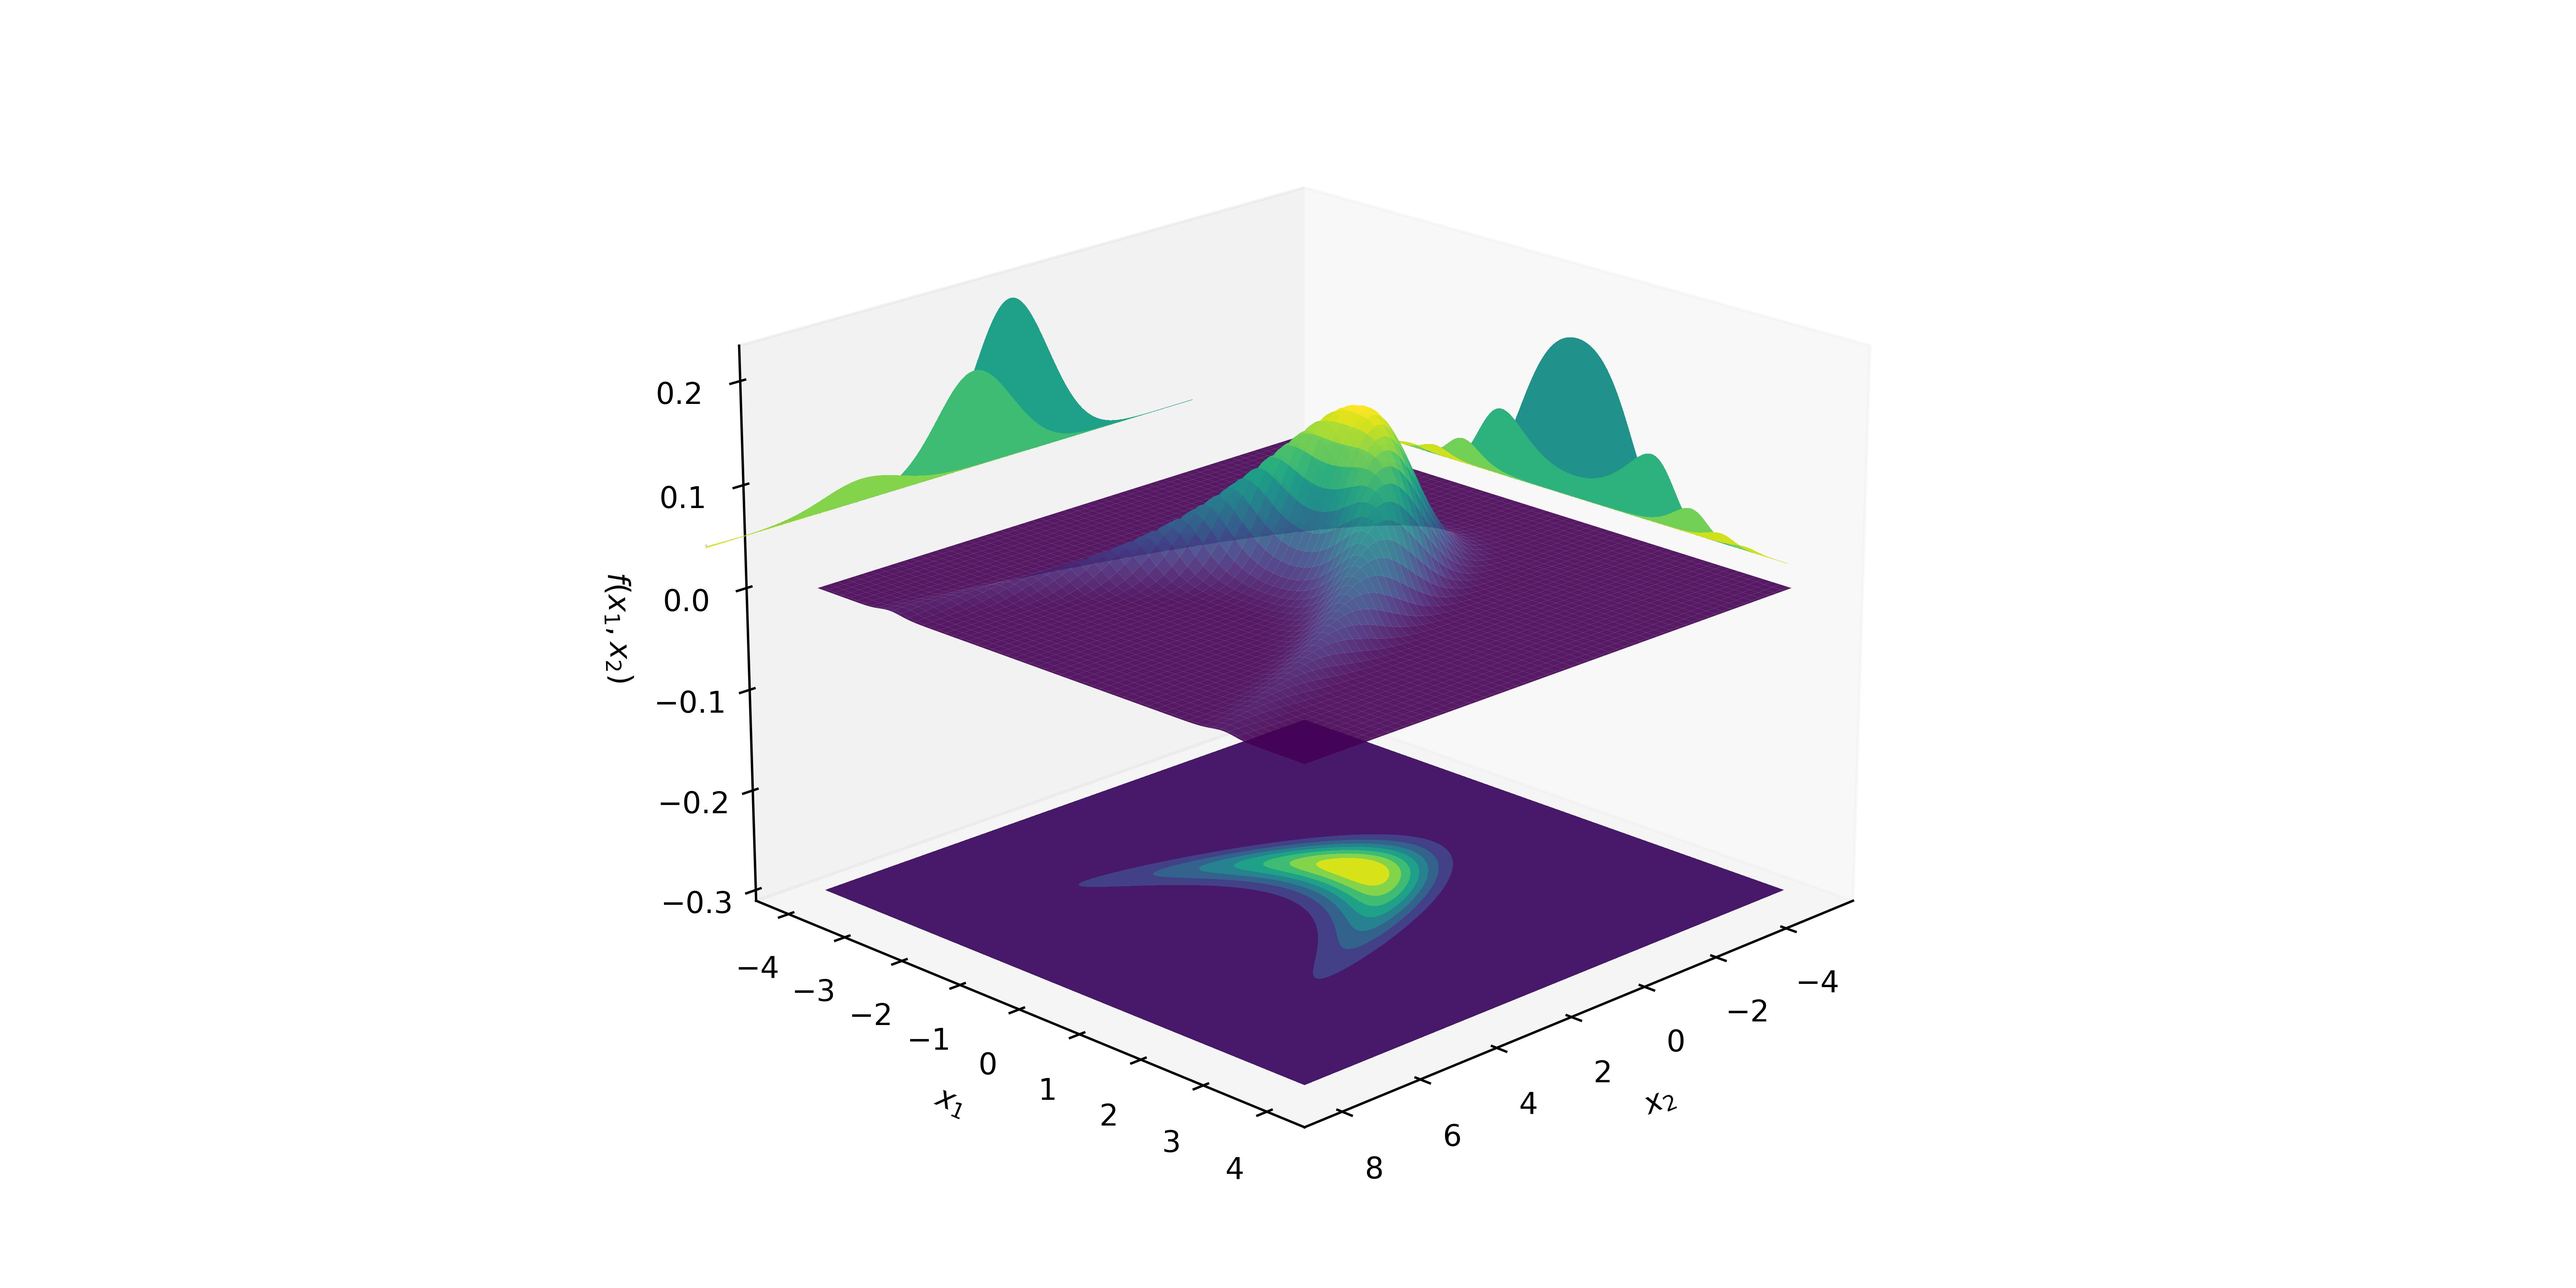
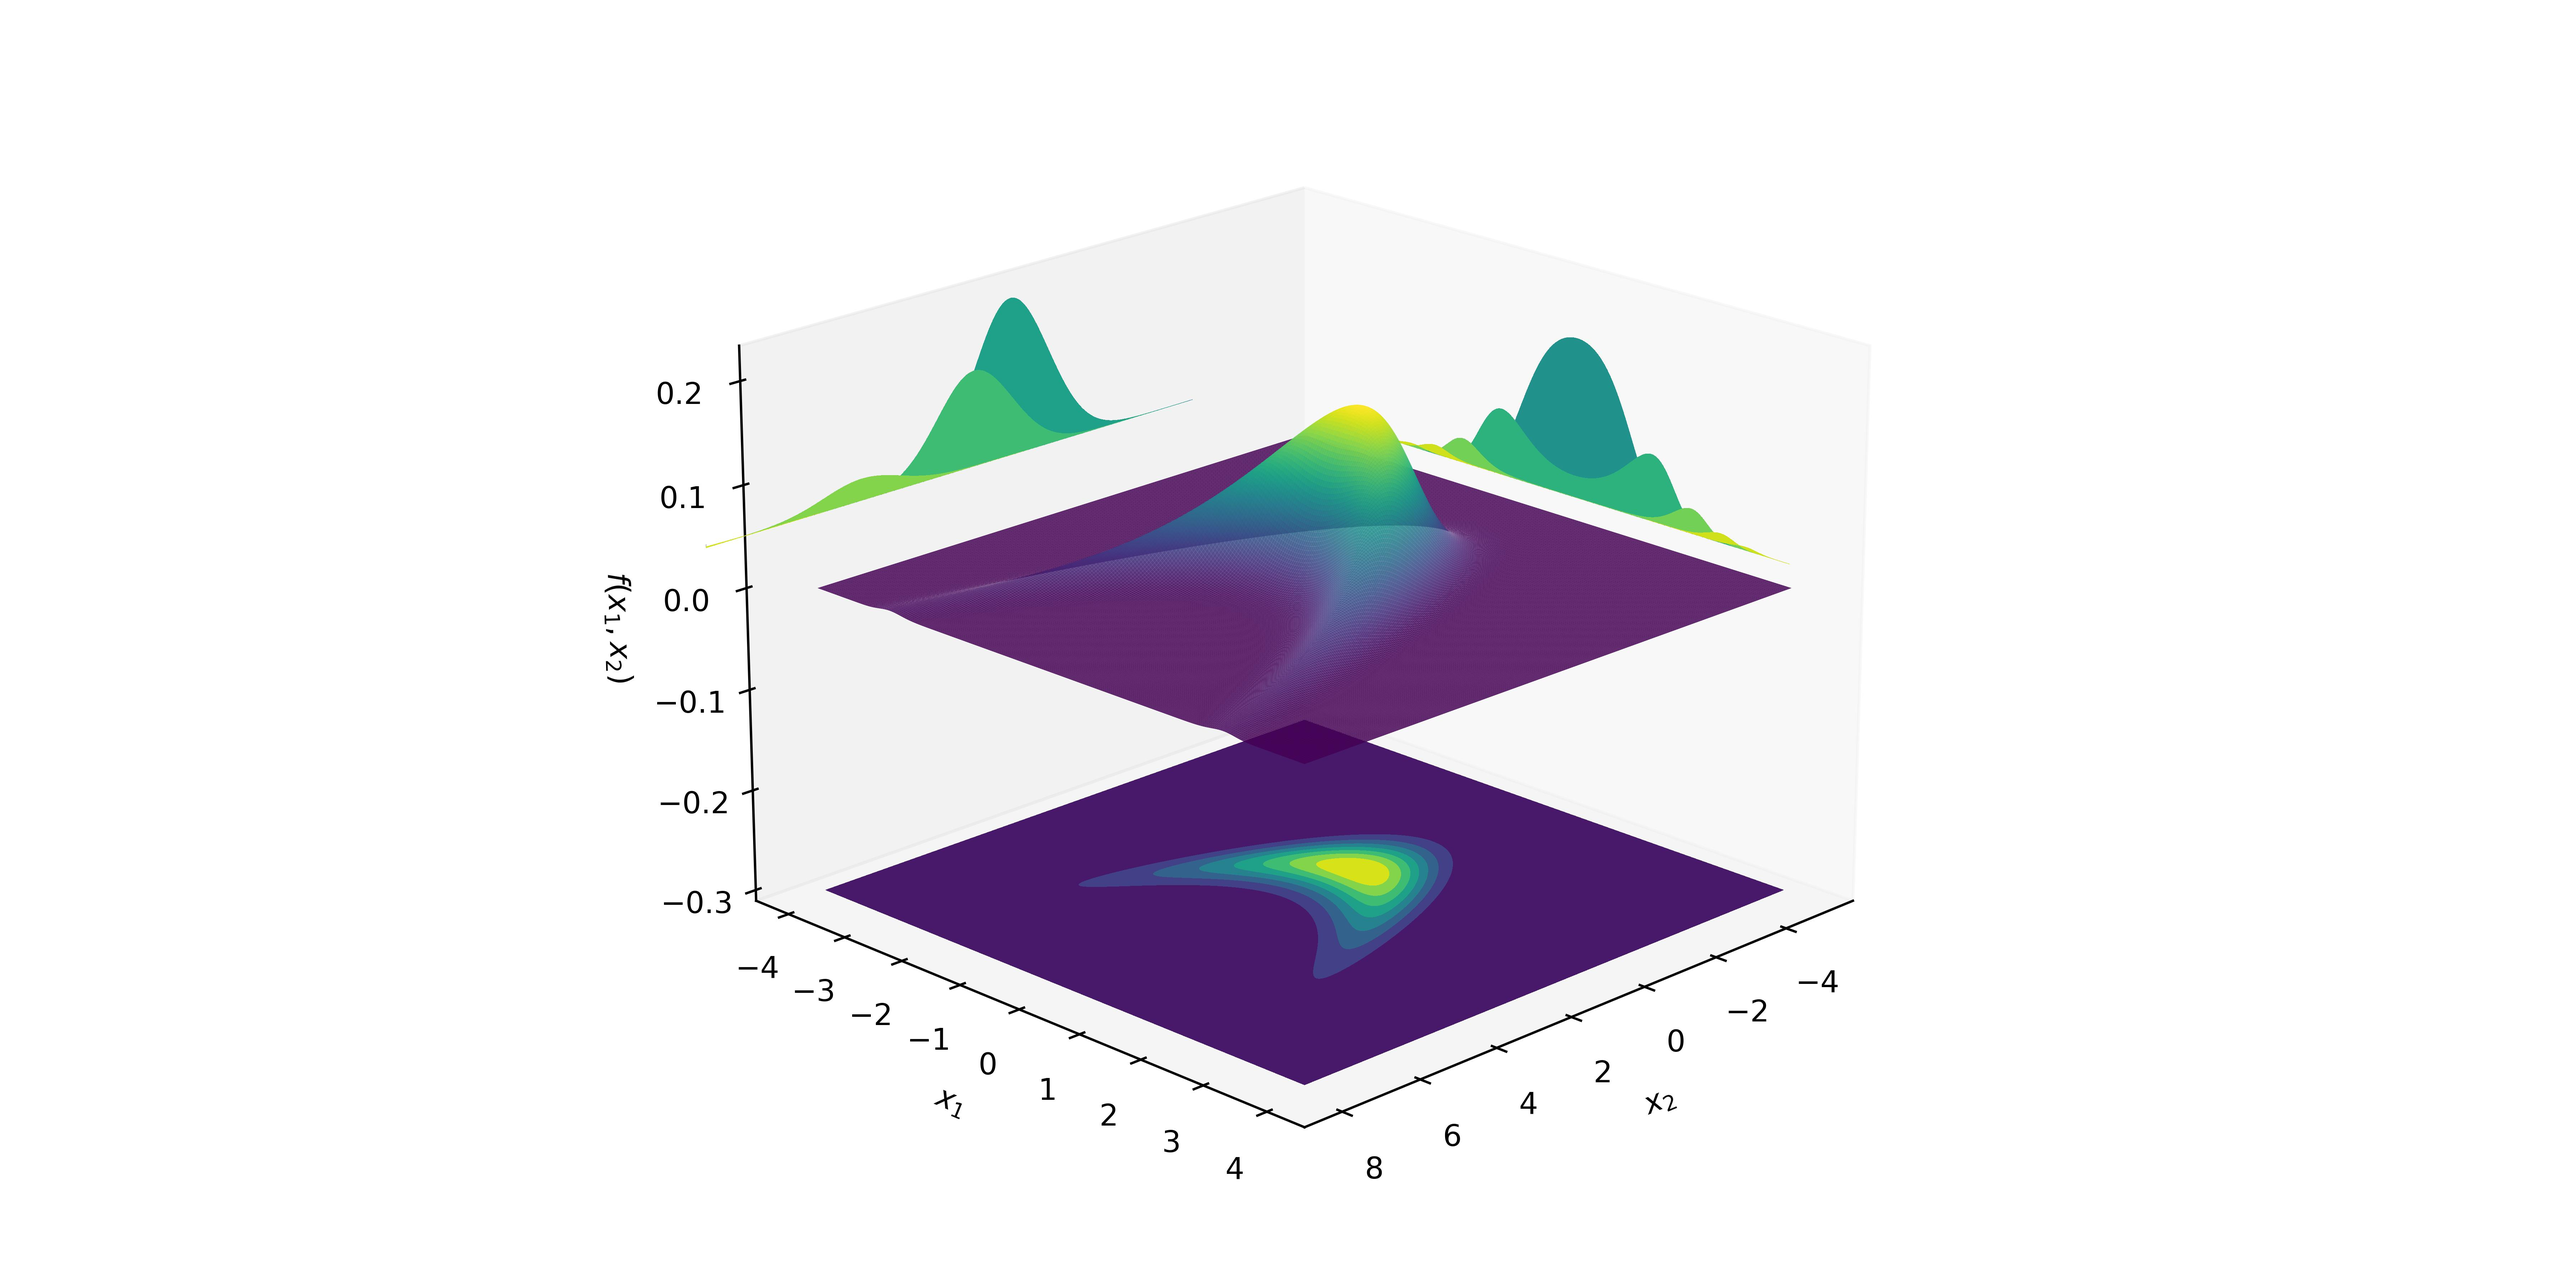
increased approx. points

Changed region(s): [[0.3125, 0.3733, 0.6875, 0.56], [0.4688, 0.3422, 0.5, 0.3733]]

diff --git a/src/maf.py b/src/maf.py
@@ -71,9 +71,9 @@ bij.forward(jnp.array([[1.0, -2], [2, -4], [3, -6]]))
 
 # Masking - using haiku?
 
-
-x1 = jnp.linspace(-5, 8, 500)
-x2 = jnp.linspace(-4, 4, 500)
+# Density 1
+x1 = jnp.linspace(-5, 8, 2000)
+x2 = jnp.linspace(-4, 4, 2000)
 lpx2 = tfd.Normal(loc=0, scale=1.0).log_prob(x2)
 lpx1 = tfd.Normal(loc=x2[:, jnp.newaxis] ** 2, scale=1.0).log_prob(x1)
 
@@ -95,4 +95,45 @@ ax.view_init(elev=20, azim=45)
 ax.grid(False)
 fig.tight_layout()
 plt.savefig("./plots/MVN_curved.jpg", dpi=600)
+plt.close()
+
+# Density 2
+def p(x):
+    theta = jnp.arctan2(x[..., 1], x[..., 0])
+    r = jnp.sqrt(jnp.sum(x ** 2, axis=-1))
+    return jnp.exp(-0.5 * theta ** 2) * jnp.exp(-0.5 * ((r - 1) / 0.2) ** 2)
+
+
+# def p(x):
+#     x1, x2 = x[..., 0], x[..., 1]
+#     norm = (x1 ** 2 + x2 ** 2) ** 0.5
+#     exp1 = jnp.exp(-0.2 * ((x1 - 2) / 0.8) ** 2)
+#     exp2 = jnp.exp(-0.2 * ((x1 + 2) / 0.8) ** 2)
+#     u = 0.5 * ((norm - 4) / 0.4) ** 2 - jnp.log(exp1 + exp2)
+#     return jnp.exp(-u)
+
+
+x1 = jnp.linspace(-2, 2, 2000)
+x2 = jnp.linspace(-2, 2, 2000)
+
+
+X1, X2 = jnp.meshgrid(x1, x2)
+Z = p(jnp.stack([X1, X2], axis=-1))
+
+cm = plt.cm.get_cmap("viridis")
+fig = plt.figure(figsize=(12, 6))
+ax = fig.add_subplot(111, projection="3d")
+surf = ax.plot_surface(X1, X2, Z, rstride=8, cstride=8, alpha=0.9, cmap=cm)
+cset = ax.contourf(X1, X2, Z, zdir="z", offset=-1.2, cmap=cm)
+cset = ax.contourf(X1, X2, Z, zdir="x", offset=3, cmap=cm)
+cset = ax.contourf(X1, X2, Z, zdir="y", offset=3, cmap=cm)
+ax.set_zlim(-1.2, np.max(Z) * 1.4)
+ax.set_xlabel(r"$x_{2}$")
+ax.set_ylabel(r"$x_{1}$")
+ax.set_zlabel(r"$f(x_{1},x_{2})$")
+ax.view_init(elev=25, azim=-120)
+ax.grid(False)
+fig.tight_layout()
+# plt.show()
+plt.savefig("./plots/MVN_circle.jpg", dpi=600)
 plt.close()

diff --git a/src/bflow.py b/src/bflow.py
@@ -102,8 +102,8 @@ dist_base = distrax.Normal(loc=mu, scale=sigma)
 bij = distrax.Inverse(distrax.Chain(chained_bijectors))
 dist_transformed = distrax.Transformed(dist_base, bij)
 
-x1 = np.linspace(-3, 3, 400)
-x2 = np.linspace(-3, 3, 400)
+x1 = np.linspace(-3, 3, 2000)
+x2 = np.linspace(-3, 3, 2000)
 X1, X2 = np.meshgrid(x1, x2)
 Y = np.exp(dist_base.log_prob(X1) + dist_base.log_prob(X2))
 Z = np.exp(dist_transformed.log_prob(X1) + dist_transformed.log_prob(X2))
@@ -134,8 +134,8 @@ dist_base = distrax.MultivariateNormalDiag(loc=mu, scale_diag=sigma)
 bij = distrax.Block(distrax.Inverse(distrax.Chain(chained_bijectors)), ndims=1)
 dist_transformed = distrax.Transformed(dist_base, bij)
 
-x1 = np.linspace(-3, 3, 600)
-x2 = np.linspace(-3, 3, 600)
+x1 = np.linspace(-3, 3, 2000)
+x2 = np.linspace(-3, 3, 2000)
 X1, X2 = np.meshgrid(x1, x2)
 X = np.stack([X1, X2], axis=-1)
 Y = np.exp(dist_base.log_prob(X))
